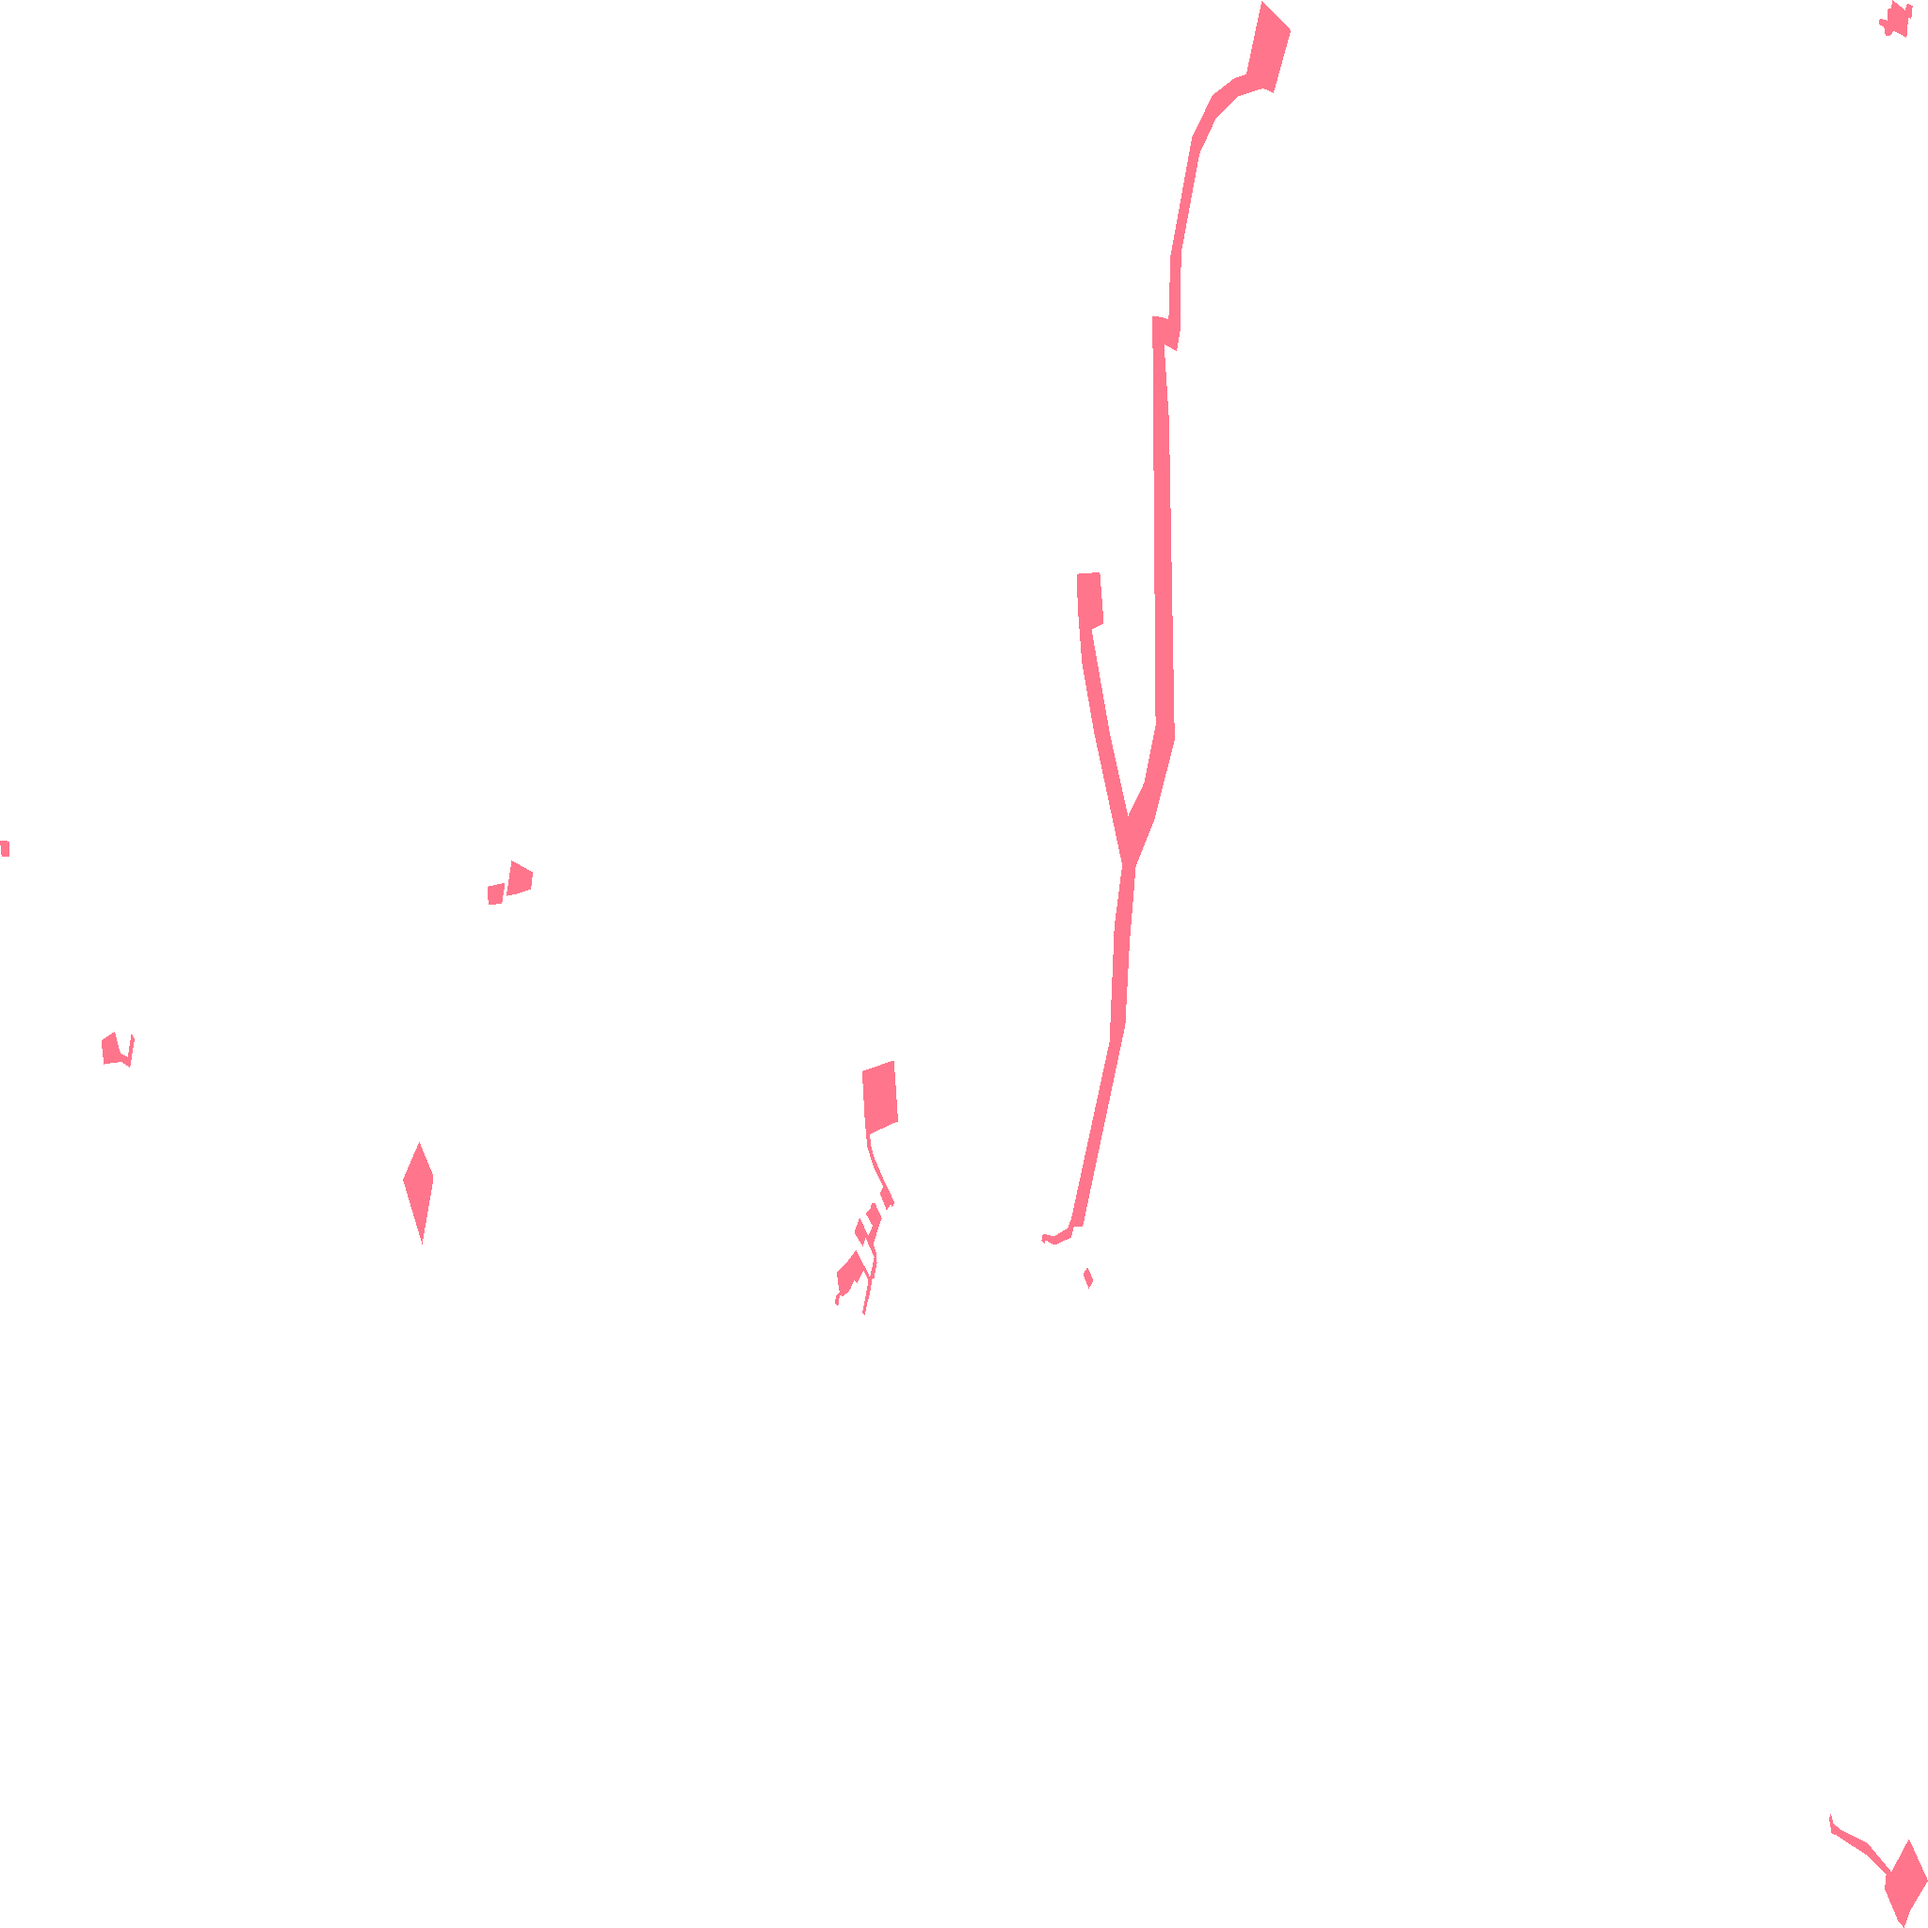
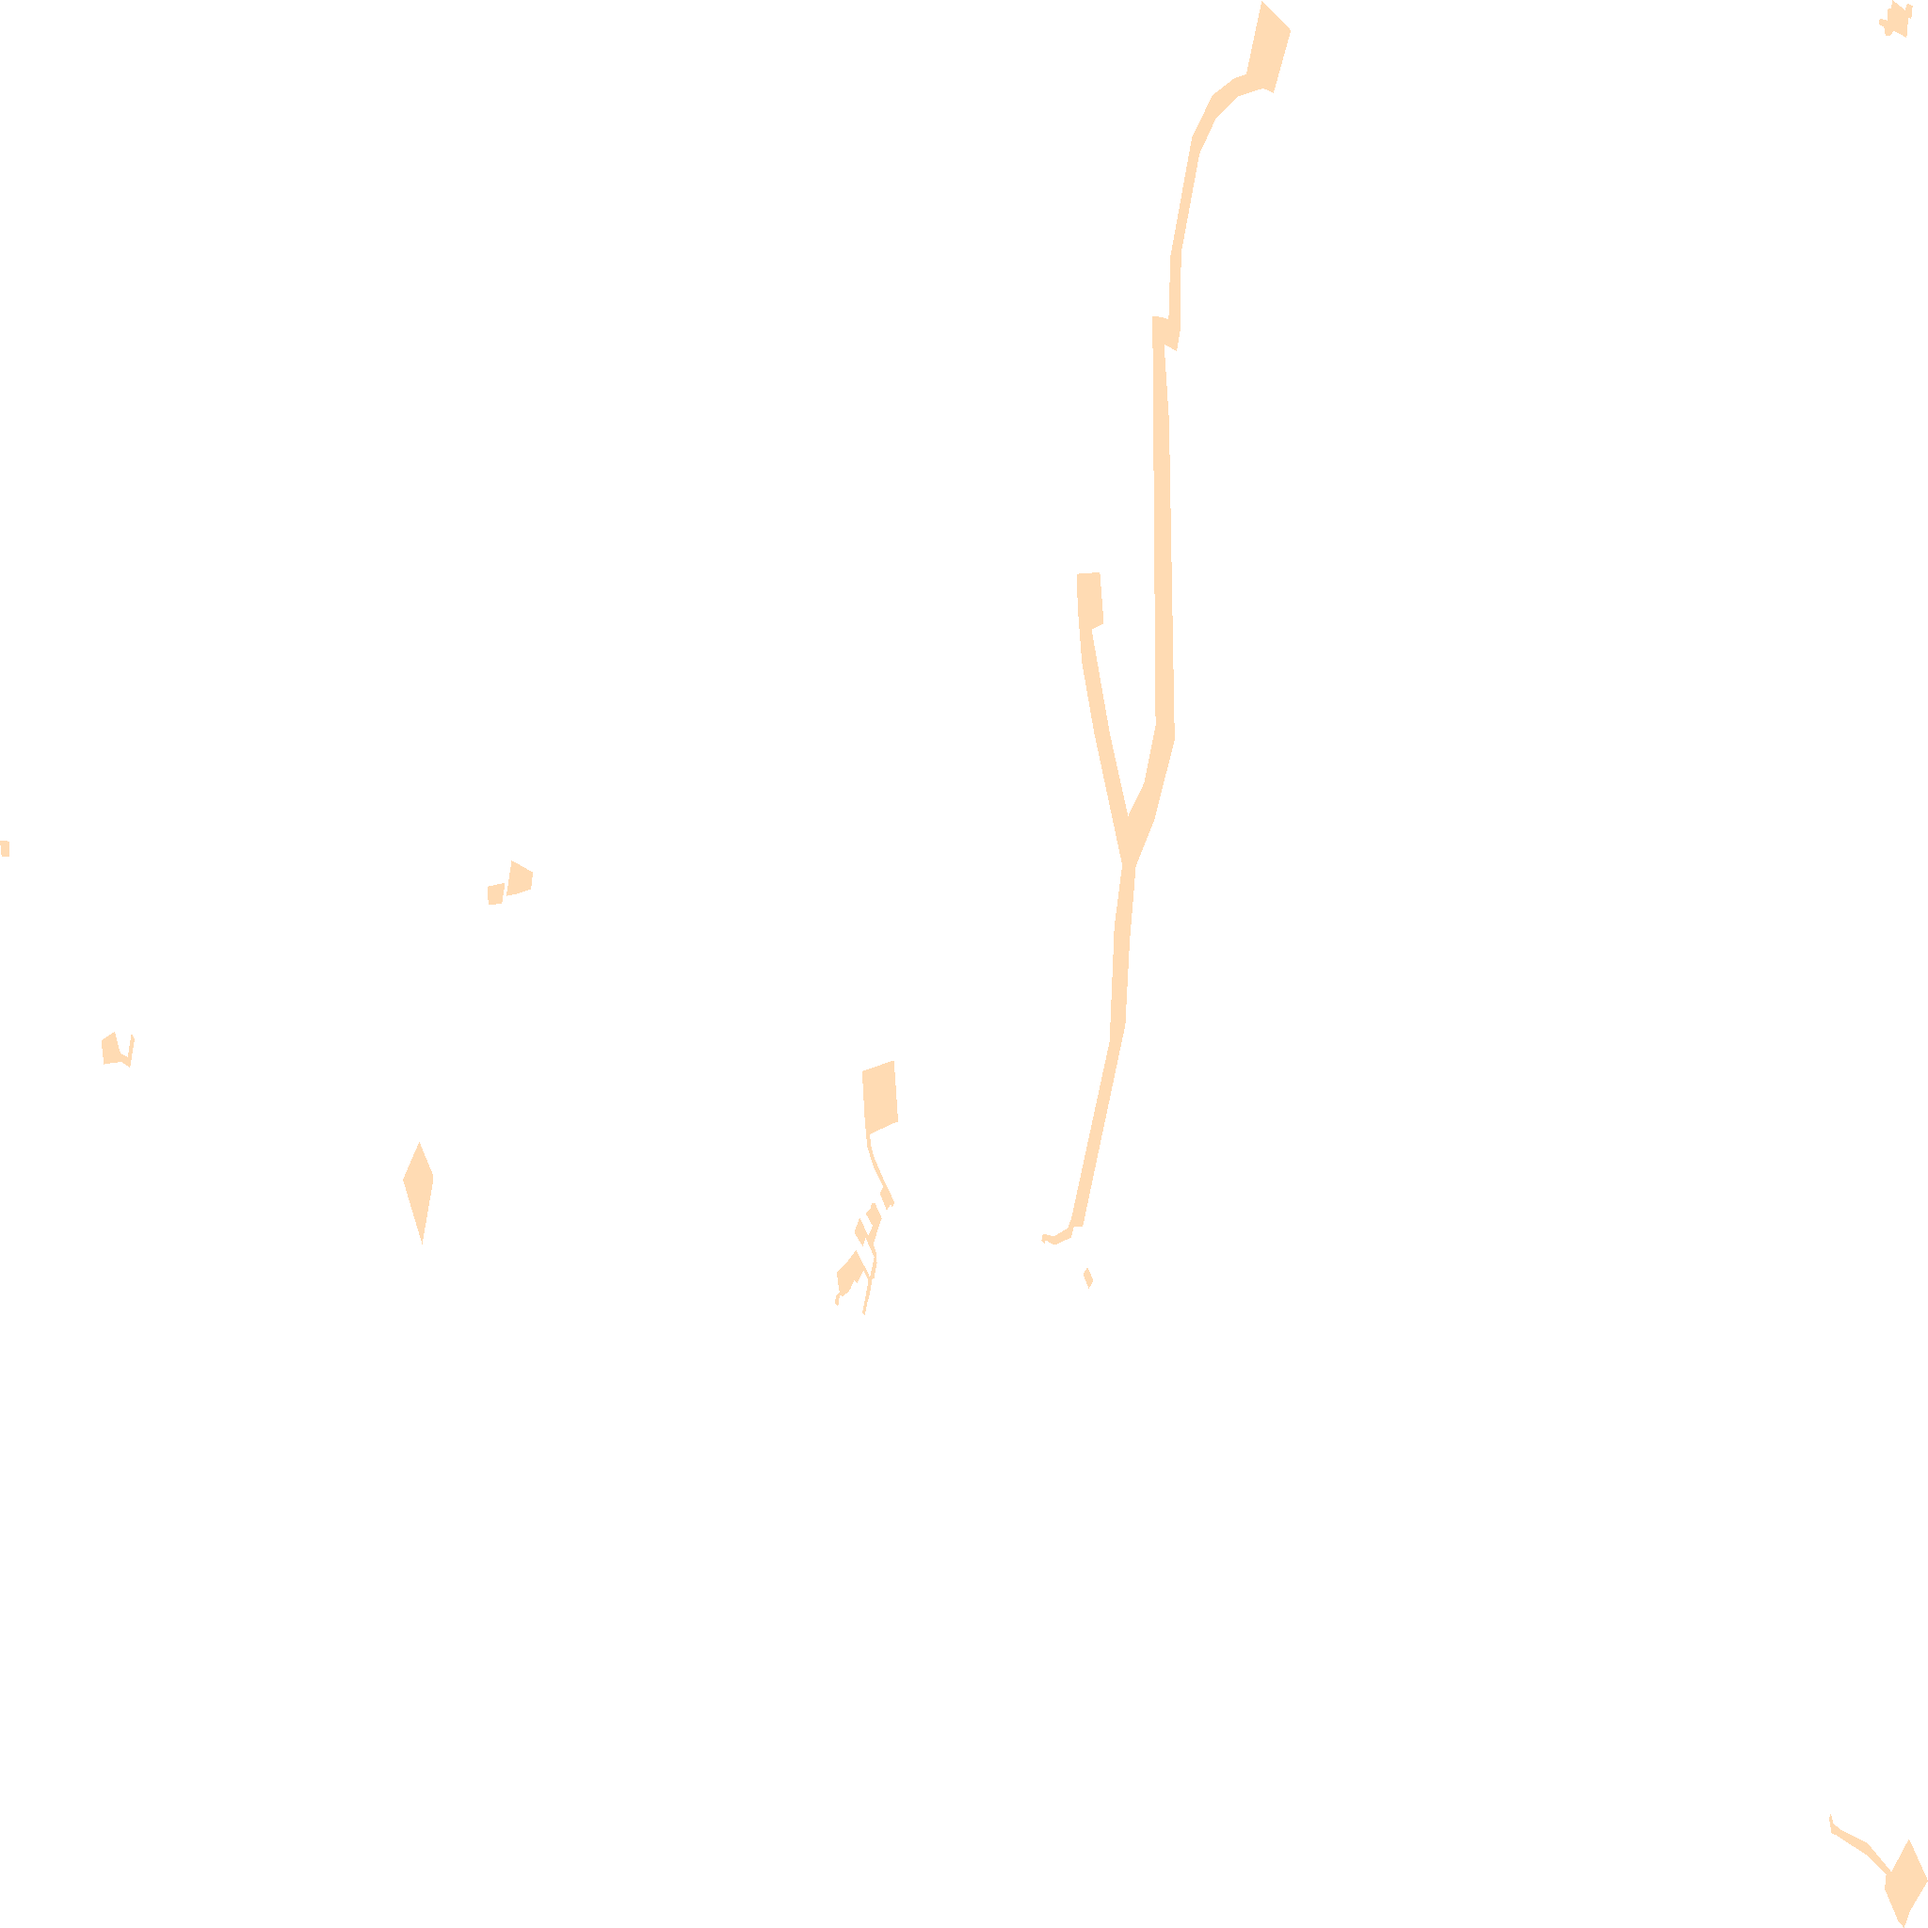
Karte p_618

diff --git a/p_618.html b/p_618.html
@@ -128,8 +128,9 @@
 <body>
     <div id="map"></div>
     <div id="legend">
-        <div><span style="display:inline-block; width:20px; height:10px; background:#FF7F00; margin-right:5px;"></span>Ausbauphase 1: Ausbau bei ausreichender Nachfrage</div>
+        <div><span style="display:inline-block; width:20px; height:10px; background:#FF7F00; margin-right:5px;"></span>Ausbauphase 1: Glasfasernetz vorhanden oder geplant</div>
         <div><span style="display:inline-block;width:20px; height:10px; background:#00143C; margin-right:5px;"></span>Ausbauphase 2: Interessenbekundung möglich</div>
+        <div><span style="display:inline-block;width:20px; height:10px; background:#FFC17D; margin-right:5px;"></span>Ausbauphase 3: Gefördertes Ausbaugebiet </div>
     </div>
     <script>
     const bounds = [[50.33682589, 9.161773301], [50.366290449, 9.26281822]];
